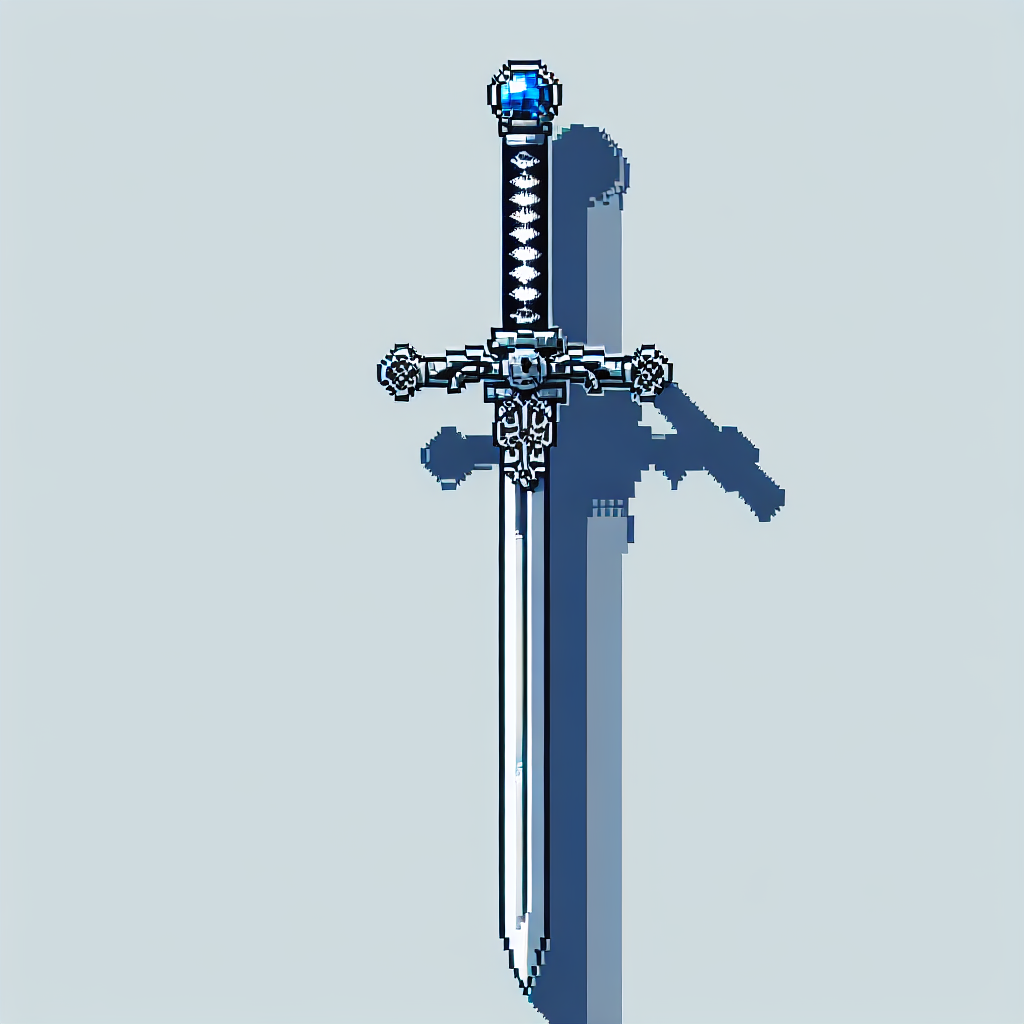
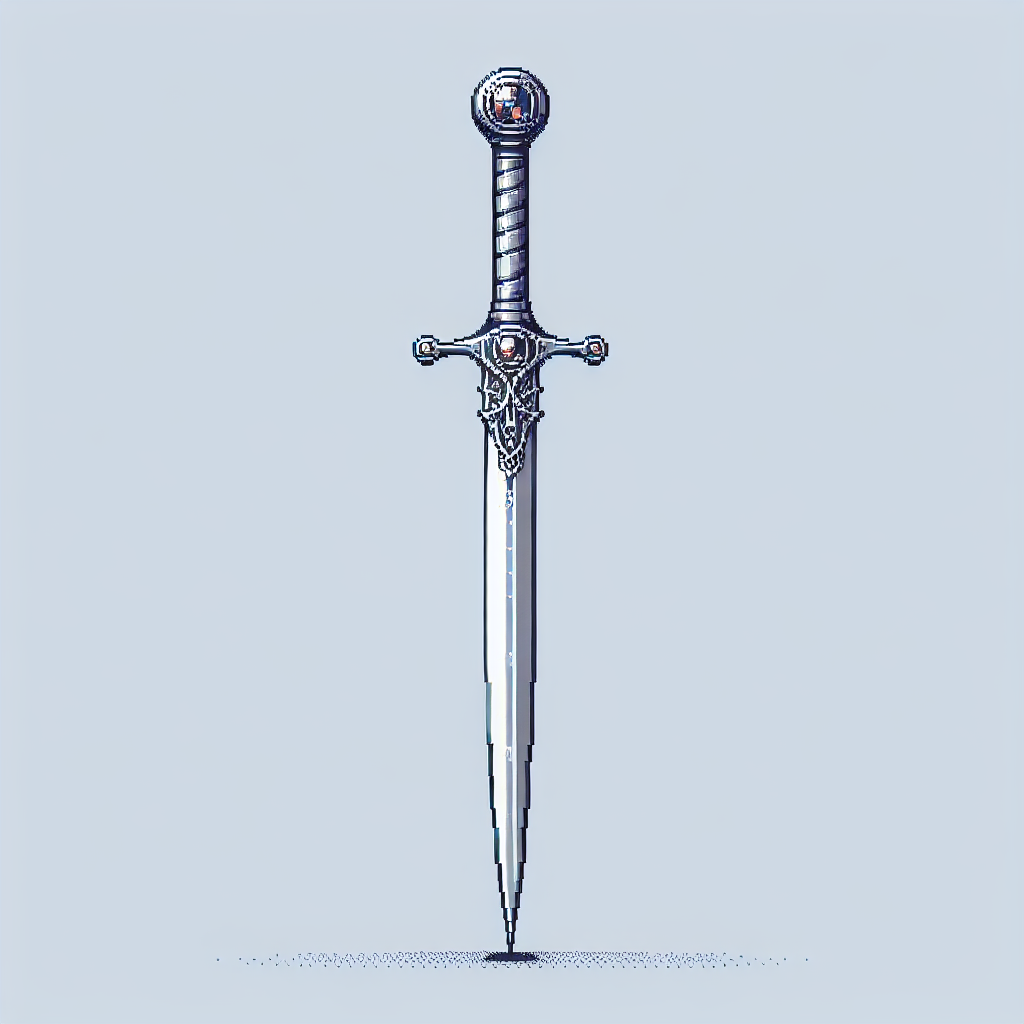
image updates

Changed region(s): [[0.3438, 0.0312, 0.7812, 1.0]]

diff --git a/setup/seed/seed_treasure.py b/setup/seed/seed_treasure.py
@@ -72,7 +72,7 @@ TRADEGOODS_ROWS: list[tuple[str, str, int, str, str]] = [
     ("1-yrd-cloth", "1 sq. yd. of cotton cloth", 250, "1 square yard of cotton cloth", "Common"),
     ("1-lb-ginger", "1 lb of ginger", 100, "1 pound of ginger", "Common"),
     ("goat", "goat", 100, " 4 legged creature with horns and a funny look in it's eye", "Common"),
-    ("1-lb-cinnamon", "1 lb of cinnamon", 100, " 4 legged creature with horns and a funny look in it's eye", "Common"),
+    ("1-lb-cinnamon", "1 lb of cinnamon", 100, " 1 lb of sweet cinnamon", "Common"),
     ("1-lb-pepper", "1 lb of pepper", 100, " 1 pound of pepper", "Common"),
     ("sheep", "domestic sheep", 200, " Highly cuddly 4 legged creature", "Common"),
     ("1-lb-cloves", "1 lb of cloves", 300, " Highly cuddly 4 legged creature", "Common"),

diff --git a/tools/item_image_generator.py b/tools/item_image_generator.py
@@ -110,7 +110,7 @@ for i, row in df.iterrows():
     visual_detail = fetch_visual_description(name, desc, visual_desc_cache)
     prompt = (
         f"A {name}, a {category.lower()}, centered on a plain solid {bg_color} background. "
-        "Pixel art, manga-inspired style. Only the item is shown, centered."
+        "Pixel art, manga-inspired style. Only the item is shown, centered. Full image should fit well within frame."
     )
     if visual_detail:
         prompt += f" Features: {visual_detail}."
